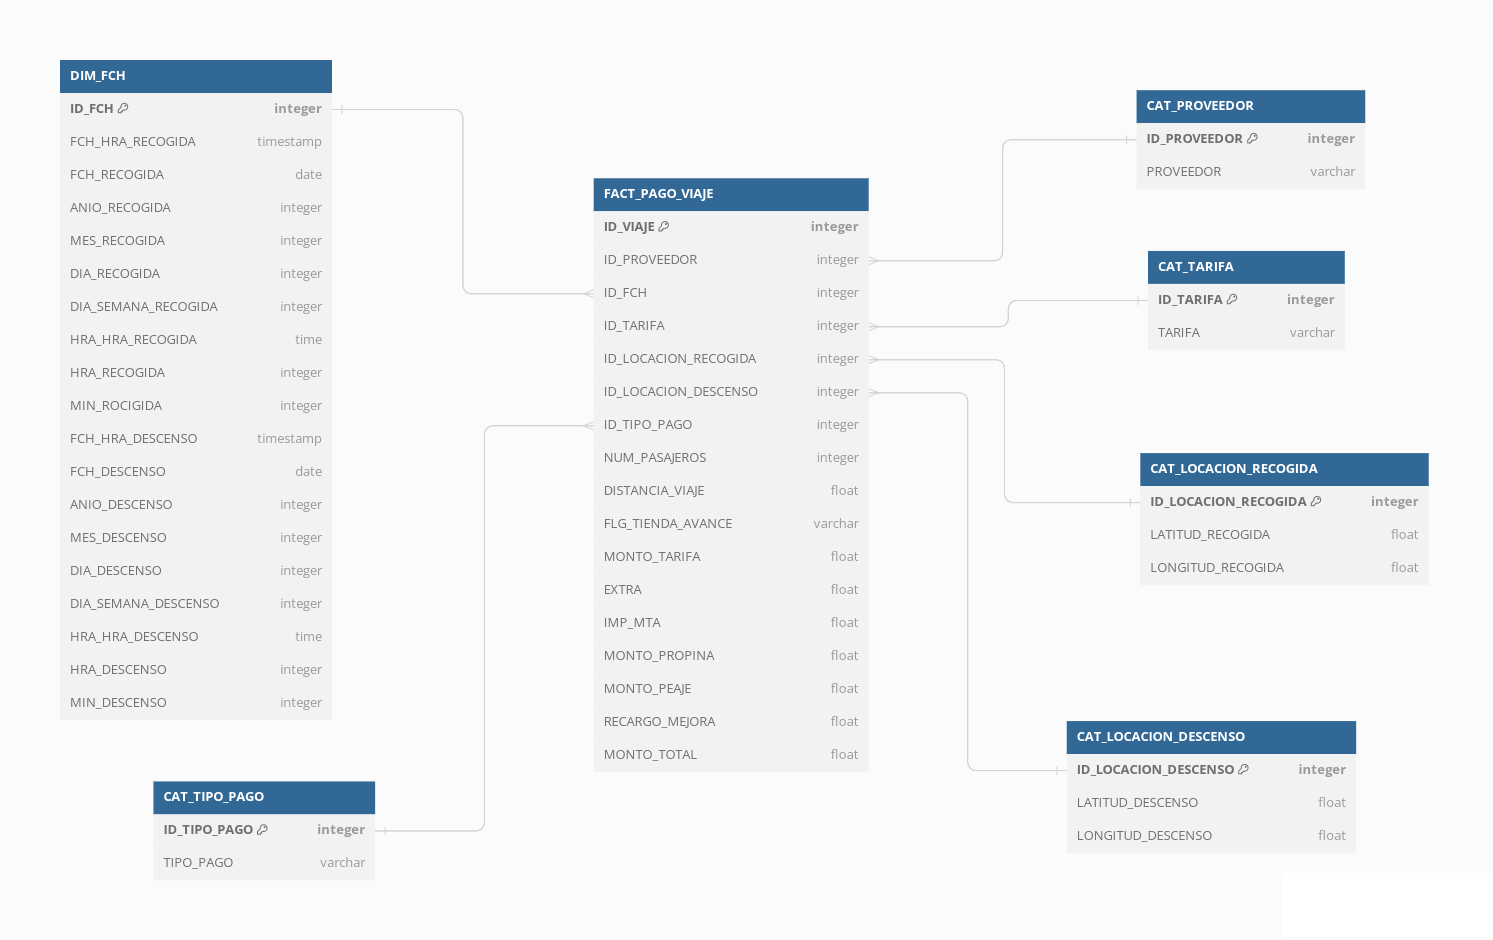
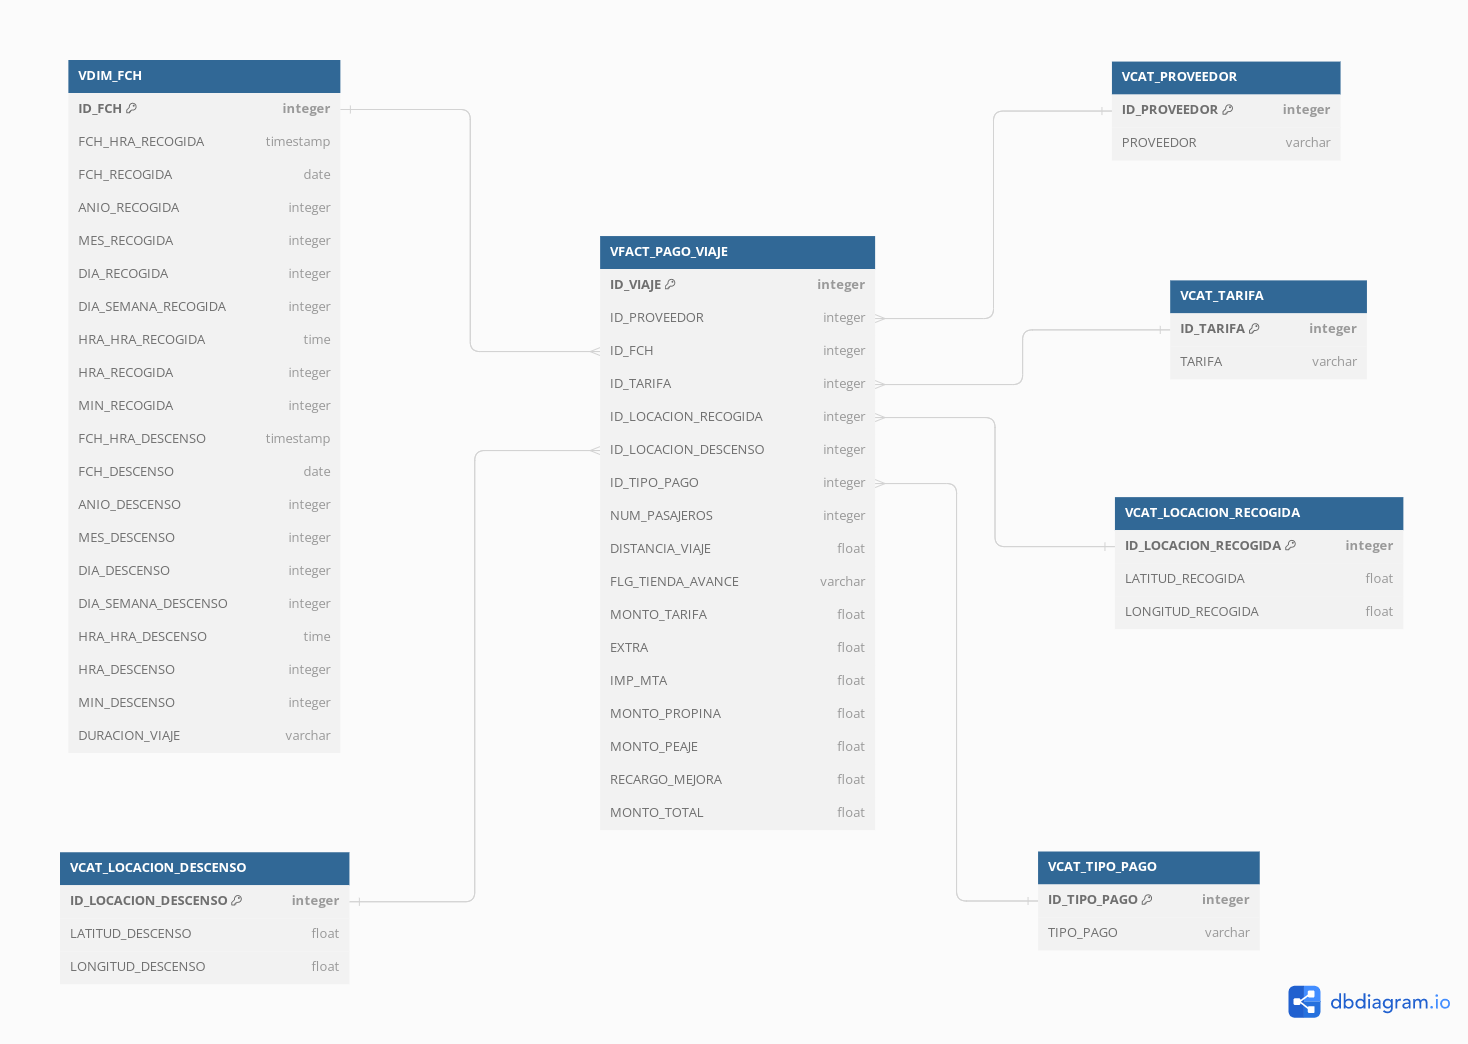
Se agrega el overwrite para que conserve el esquema de las tabla y solo sobre escriba los datos

diff --git a/src/Transform.py b/src/Transform.py
@@ -40,7 +40,7 @@ deleteFile()
 
 # Write a DataFrame to file csv
 df_tarifa.write.mode('append').options(delimiter=',').csv(temp_path)
-time.sleep(10)
+time.sleep(20)
 
 # Move the file from temp path to output path
 createFile(file_tarifa_name)
@@ -59,7 +59,7 @@ deleteFile()
 
 # Write a DataFrame to file csv
 df_tipo_pago.write.mode('append').options(delimiter=',').csv(temp_path)
-time.sleep(10)
+time.sleep(20)
 
 # Move file from temp path to output path
 createFile(file_tipo_pago_name)
@@ -77,7 +77,7 @@ deleteFile()
 
 # Write a DataFrame to file csv
 df_proveedor.write.mode('append').options(delimiter=',').csv(temp_path)
-time.sleep(10)
+time.sleep(20)
 
 # Move file from temp path to output path
 createFile(file_proveedor_name)
@@ -103,7 +103,7 @@ deleteFile()
 
 # Write a DataFrame to file csv
 df_locacion_descenso.write.mode('append').options(delimiter=',').csv(temp_path)
-time.sleep(10)
+time.sleep(20)
 
 # Move file from temp path to output path
 createFile(file_locacion_descenso_name)
@@ -121,7 +121,7 @@ deleteFile()
 
 # Write a DataFrame to file csv
 df_locacion_recogida.write.mode('append').options(delimiter=',').csv(temp_path)
-time.sleep(10)
+time.sleep(20)
 
 # Move file from temp path to output path
 createFile(file_locacion_recogida_name)
@@ -139,7 +139,7 @@ deleteFile()
 
 # Write a DataFrame to file csv
 df_fecha.write.mode('append').options(delimiter=',').csv(temp_path)
-time.sleep(10)
+time.sleep(20)
 
 # Move file from temp path to output path
 createFile(file_fecha_name)
@@ -162,7 +162,7 @@ deleteFile()
 
 # Write a DataFrame to file csv
 df_pago_viajes.write.mode('append').options(delimiter=',').csv(temp_path)
-time.sleep(10)
+time.sleep(20)
 
 # Move file from temp path to output path
 createFile(file_pago_viaje_name)

diff --git a/src/files/File_Load.py b/src/files/File_Load.py
@@ -23,14 +23,29 @@ def loadTable(struct, path_file, table, mode_load):
     df_table.printSchema()
  
     try:
-        df_table.write \
-            .format(config('CONN')) \
-            .mode(mode_load) \
-            .option("url", URL) \
-            .option("dbtable", table) \
-            .option("user", config('SQL_USER')) \
-            .option("password", config('SQL_PWD')) \
-            .save()
+        if mode_load == overwrite:
+            # With truncate option the table keep the original schema
+            # only overwrite the data
+            df_table.write \
+                .option("truncate", "true") \
+                .format(config('CONN')) \
+                .mode(mode_load) \
+                .option("url", URL) \
+                .option("dbtable", table) \
+                .option("user", config('SQL_USER')) \
+                .option("password", config('SQL_PWD')) \
+                .save()
+        
+        else:
+
+            df_table.write \
+                .format(config('CONN')) \
+                .mode(mode_load) \
+                .option("url", URL) \
+                .option("dbtable", table) \
+                .option("user", config('SQL_USER')) \
+                .option("password", config('SQL_PWD')) \
+                .save()
 
     except ValueError as error:
         print("Connector write failed." + error)
@@ -59,7 +74,7 @@ def readTables(table, final_path_file, file):
 
     # Create new csv file in temp path
     df_read_table.write.mode('append').csv(temp_path)
-    time.sleep(10)
+    time.sleep(20)
 
     # Delete past file created
     if os.path.exists(final_path_file) == True:

diff --git a/src/files/Table_Read_Load.py b/src/files/Table_Read_Load.py
@@ -81,12 +81,12 @@ table_fch = f"""SELECT DISTINCT
 	   SUBSTRING(IM.FCH_HRA_DESCENSO, 12, 19) AS HRA_HRA_DESCENSO,
 	   DATEPART(HOUR, IM.FCH_HRA_DESCENSO) AS HRA_DESCENSO,
 	   DATEPART(MINUTE, IM.FCH_HRA_DESCENSO) AS MIN_DESCENSO,
-	   CASE WHEN DATEDIFF (HOUR, IM.FCH_HRA_RECOGIDA, IM.FCH_HRA_DESCENSO) % 60 < 10
-                THEN '0' + CAST(DATEDIFF (HOUR, IM.FCH_HRA_RECOGIDA, IM.FCH_HRA_DESCENSO) AS VARCHAR)
+	   CASE WHEN LEN(CAST(DATEDIFF (HOUR, IM.FCH_HRA_RECOGIDA, IM.FCH_HRA_DESCENSO) % 60 AS VARCHAR)) < 2
+                THEN '0' + CAST(DATEDIFF (HOUR, IM.FCH_HRA_RECOGIDA, IM.FCH_HRA_DESCENSO) % 60 AS VARCHAR)
 			ELSE CAST(DATEDIFF (HOUR, IM.FCH_HRA_RECOGIDA, IM.FCH_HRA_DESCENSO) % 60 AS VARCHAR)
 	   END + ':' +
-	   CASE WHEN DATEDIFF (MINUTE, IM.FCH_HRA_RECOGIDA, IM.FCH_HRA_DESCENSO) % 60 < 10
-                THEN '0' + CAST(DATEDIFF (MINUTE, IM.FCH_HRA_RECOGIDA, IM.FCH_HRA_DESCENSO) AS VARCHAR)
+	   CASE WHEN LEN(CAST(DATEDIFF (MINUTE, IM.FCH_HRA_RECOGIDA, IM.FCH_HRA_DESCENSO) % 60 AS VARCHAR)) < 2
+                THEN '0' + CAST(DATEDIFF (MINUTE, IM.FCH_HRA_RECOGIDA, IM.FCH_HRA_DESCENSO) % 60 AS VARCHAR)
 			ELSE CAST(DATEDIFF (MINUTE, IM.FCH_HRA_RECOGIDA, IM.FCH_HRA_DESCENSO) % 60 AS VARCHAR)
 	   END + ':'  +
 	   CASE WHEN LEN(CAST(DATEDIFF (SECOND, IM.FCH_HRA_RECOGIDA, IM.FCH_HRA_DESCENSO) % 60 AS VARCHAR)) < 2

diff --git a/src/files/ETL_Param.py b/src/files/ETL_Param.py
@@ -10,7 +10,7 @@ from pyspark.sql.types import IntegerType
 from pyspark.sql.types import DoubleType
 from pyspark.sql.types import DateType
 from pyspark.sql.types import Row
-from datetime import date
+from datetime import datetime
 from decouple import config
 
 
@@ -28,8 +28,9 @@ logs_path = "../logs/"
 
 
 # Date parameter
-current_date = date.today()
+current_date = datetime.today()
 format_date = current_date.strftime("%Y%m%d")
+format_log_date = current_date.strftime("%Y%m%d%H%M%S")
 
 
 # Files names
@@ -74,9 +75,9 @@ path_final_pago_viaje = output_path + file_final_pago_viaje_name
 
 
 # Logs files
-extract_log = "Extract_Process_" + format_date + ".log"
-transform_log = "Transform_Process_" + format_date + ".log"
-load_log = "Load_Process_" + format_date + ".log"
+extract_log = "Extract_Process_" + format_log_date + ".log"
+transform_log = "Transform_Process_" + format_log_date + ".log"
+load_log = "Load_Process_" + format_log_date + ".log"
 
 
 # Paths and logs file names

diff --git a/src/files/File_Clean.py b/src/files/File_Clean.py
@@ -19,10 +19,10 @@ def cleanPaths():
     os.rename(output_path + file_csv_name, proces_path + file_csv_name)
 
     # Clean temp path
+    print("\nDelete files in the paths...")
     delete_temp_path = os.listdir(temp_path)
     
     if len(delete_temp_path) > 0:
-        print("\nDelete files in the temp path")
         for delete in delete_temp_path:
             os.remove(temp_path + delete)
 
@@ -30,6 +30,5 @@ def cleanPaths():
     delete_output_path = os.listdir(output_path)
     
     if len(delete_output_path) > 0:
-        print("Delete files in the output path")
         for delete in delete_output_path:
             os.remove(output_path + delete)

diff --git a/src/Load.py b/src/Load.py
@@ -19,6 +19,7 @@ logging.basicConfig(filename = path_load_log_name, \
 logging.debug('This message should appear on the console')
 logging.info('So should this')
 logging.warning('And this, too')
+logging.error('It is a important message')
 
 # Spark session parameters are initialized
 sp = SparkSession.builder.master("local").appName("Load Tables In SQL").getOrCreate()
